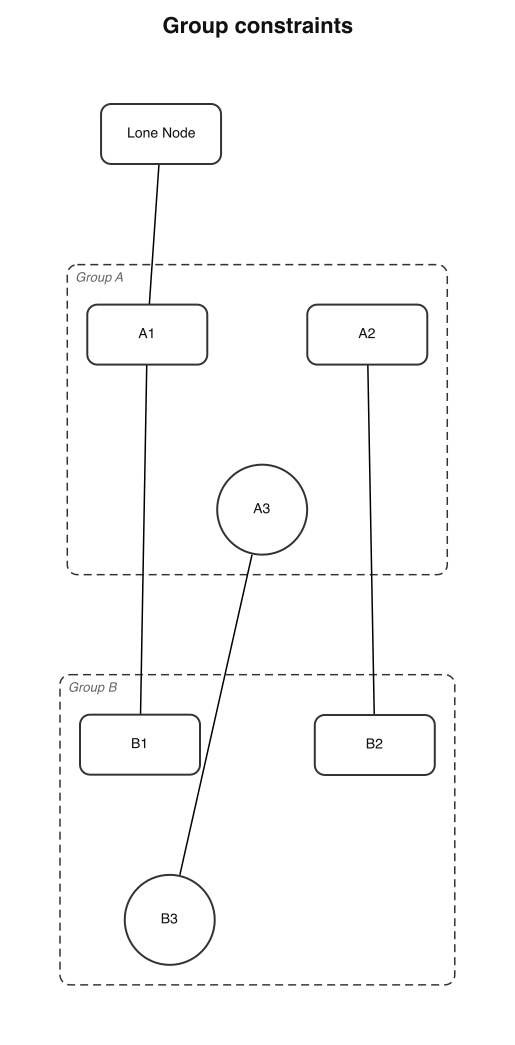
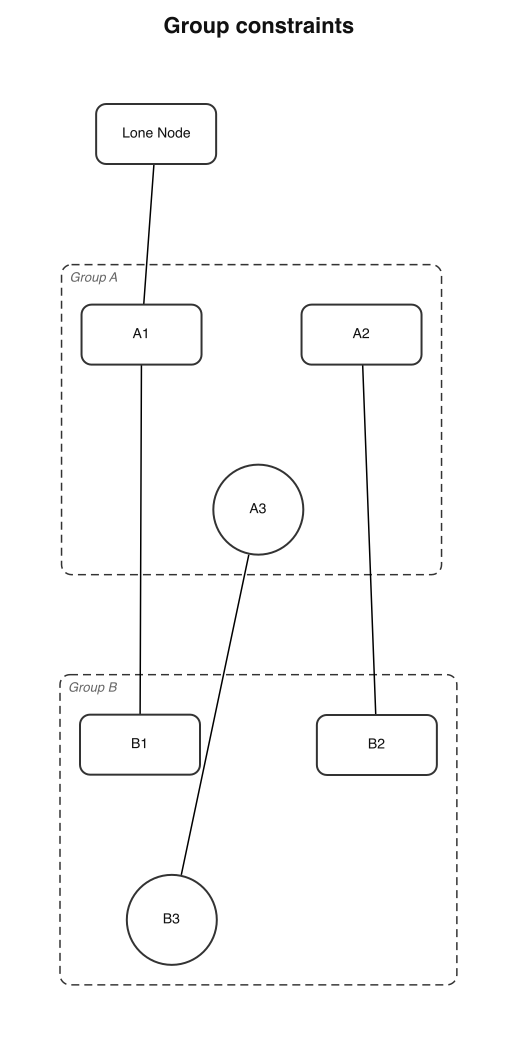
improve overlap somewhat

diff --git a/src/strategies/angular-relaxation.ts b/src/strategies/angular-relaxation.ts
@@ -12,7 +12,12 @@ import type { MinimizeEdge, MinimizeOptions } from "./types";
 
 const FULL_TURN = Math.PI * 2;
 const MINIMUM_ANGULAR_GAP = (40 * Math.PI) / 180;
-export const ANGULAR_IMPROVEMENT_EPSILON = 0.01;
+// One completely collapsed angular gap is worth this many node gaps of edge
+// length. Beyond that, aggregate crowding scales superlinearly: layouts with
+// several unresolved gaps should spend more edge length on readability, while
+// an otherwise open layout keeps the lower ratio.
+const ANGULAR_ERROR_EDGE_EQUIVALENT = 0.25;
+const DENSE_CROWDING_PRESSURE = 4.5;
 const ANGULAR_NUDGE_EPSILON = 1e-4;
 const NUDGE_FRACTIONS = [
   1, 0.5, 0.25, 0.125, 0.0625, 0.03125, 0.015625,
@@ -80,6 +85,31 @@ function totalAngularError(neighborsByHub: NeighborMap): number {
   return error;
 }
 
+function sharedHubCrowdingPressure(neighborsByHub: NeighborMap): number {
+  let error = 0;
+  let count = 0;
+  for (const [hub, neighbors] of neighborsByHub) {
+    if (neighbors.length < 3) continue;
+    const angles = neighbors
+      .map((neighbor) =>
+        normalizedAngle(Math.atan2(neighbor.y - hub.y, neighbor.x - hub.x)),
+      )
+      .sort((a, b) => a - b);
+    if (angles.length < 2) continue;
+    for (let index = 0; index < angles.length; index++) {
+      const next = angles[(index + 1) % angles.length];
+      if (
+        normalizedAngle(next - angles[index]) <
+        MINIMUM_ANGULAR_GAP - ANGULAR_NUDGE_EPSILON
+      ) {
+        count++;
+      }
+    }
+    error += hubAngularError(hub, neighbors);
+  }
+  return error * count;
+}
+
 function obstacleArea(options: MinimizeOptions): number {
   const bounds = measureBounds(
     options.obstacles().map((obstacle) => obstacle.rect),
@@ -89,6 +119,27 @@ function obstacleArea(options: MinimizeOptions): number {
 
 export function angularRelaxationScore(edges: MinimizeEdge[]): number {
   return totalAngularError(buildNeighborMap(edges));
+}
+
+export function readabilityCost(
+  edgeLength: number,
+  angularError: number,
+  nodeGap: number,
+  angularWeight: number,
+): number {
+  return edgeLength + angularError * nodeGap * angularWeight;
+}
+
+function readabilityWeight(neighborsByHub: NeighborMap): number {
+  const crowdingPressure = sharedHubCrowdingPressure(neighborsByHub);
+  return (
+    ANGULAR_ERROR_EDGE_EQUIVALENT *
+    Math.max(1, (crowdingPressure / DENSE_CROWDING_PRESSURE) ** 6)
+  );
+}
+
+export function angularReadabilityWeight(edges: MinimizeEdge[]): number {
+  return readabilityWeight(buildNeighborMap(edges));
 }
 
 function targetAngle(
@@ -180,6 +231,8 @@ function tryRelaxNeighbor(
   if (radius <= EPSILON) return null;
   const originalAngle = Math.atan2(dy, dx);
   const originalPositions = snapshot(options.nodes);
+  const originalX = neighbor.x;
+  const originalY = neighbor.y;
 
   const target = targetAngle(hub, neighbor, connected);
   if (target === null) return null;
@@ -187,8 +240,16 @@ function tryRelaxNeighbor(
   const maximumAngularAdjustment = Math.abs(delta) + ANGULAR_NUDGE_EPSILON;
   const targetX = hub.x + Math.cos(target) * radius;
   const targetY = hub.y + Math.sin(target) * radius;
+  const baselineMeasure = options.measure();
+  if (!baselineMeasure) return null;
+  const angularWeight = readabilityWeight(neighborsByHub);
   let bestError = baselineError;
-  let bestEdgeLength = compactness(options.measure()!).edgeLength;
+  let bestReadability = readabilityCost(
+    baselineMeasure.edgeLength,
+    baselineError,
+    options.nodeGap,
+    angularWeight,
+  );
   let bestPositions: ReturnType<typeof snapshot> | null = null;
   for (const fraction of NUDGE_FRACTIONS) {
     const candidateAngle = originalAngle + delta * fraction;
@@ -215,6 +276,12 @@ function tryRelaxNeighbor(
       if (candidate.y !== undefined) {
         setNodeAxis(options, neighbor, "y", candidate.y);
       }
+      if (
+        Math.hypot(neighbor.x - originalX, neighbor.y - originalY) >
+        options.nodeGap + EPSILON
+      ) {
+        continue;
+      }
       const candidateAngle = Math.atan2(neighbor.y - hub.y, neighbor.x - hub.x);
       if (
         Math.abs(signedAngleDifference(originalAngle, candidateAngle)) >
@@ -227,15 +294,18 @@ function tryRelaxNeighbor(
       const candidateError = totalAngularError(neighborsByHub);
       const candidateMeasure = options.measure();
       if (!candidateMeasure) continue;
-      const candidateEdgeLength = compactness(candidateMeasure).edgeLength;
-      // Edge length is only a guard here: relaxation may never lengthen edges,
-      // but shortening them is edge-shortening's job, not a reason to accept.
+      const candidateReadability = readabilityCost(
+        candidateMeasure.edgeLength,
+        candidateError,
+        options.nodeGap,
+        angularWeight,
+      );
       if (
-        candidateEdgeLength <= bestEdgeLength + EPSILON &&
-        candidateError < bestError - ANGULAR_NUDGE_EPSILON
+        candidateError < baselineError - ANGULAR_NUDGE_EPSILON &&
+        candidateReadability < bestReadability - EPSILON
       ) {
         bestError = candidateError;
-        bestEdgeLength = candidateEdgeLength;
+        bestReadability = candidateReadability;
         bestPositions = snapshot(options.nodes);
       }
     }

diff --git a/src/minimize.ts b/src/minimize.ts
@@ -5,9 +5,10 @@ import { minimizeEdgeLengths } from "./strategies/edge-shortening";
 import { minimizeNodeSwaps } from "./strategies/node-swap";
 import { minimizeSharedHubCompaction } from "./strategies/shared-hub-compaction";
 import {
-  ANGULAR_IMPROVEMENT_EPSILON,
+  angularReadabilityWeight,
   angularRelaxationScore,
   minimizeAngularRelaxation,
+  readabilityCost,
 } from "./strategies/angular-relaxation";
 import {
   compactness,
@@ -64,12 +65,27 @@ export function minimizeLayout(options: MinimizeOptions): void {
         ])
       : null;
     const candidateAngularScore = angularRelaxationScore(options.edges);
-    const angularImproved =
-      candidateAngularScore <
-      baselineAngularScore - ANGULAR_IMPROVEMENT_EPSILON;
-    const angularNotWorse =
-      candidateAngularScore <=
-      baselineAngularScore + ANGULAR_IMPROVEMENT_EPSILON;
+    const angularWeight = angularReadabilityWeight(options.edges);
+    const baselineReadability = readabilityCost(
+      baselineScore.edgeLength,
+      baselineAngularScore,
+      options.nodeGap,
+      angularWeight,
+    );
+    const candidateReadability = candidateScore
+      ? readabilityCost(
+          candidateScore.edgeLength,
+          candidateAngularScore,
+          options.nodeGap,
+          angularWeight,
+        )
+      : null;
+    const readabilityImproved =
+      candidateReadability !== null &&
+      candidateReadability < baselineReadability - EPSILON;
+    const readabilityNotWorse =
+      candidateReadability !== null &&
+      candidateReadability <= baselineReadability + EPSILON;
     const compactnessChanged =
       candidateScore !== null &&
       (["area", "perimeter", "largestDimension", "edgeLength"] as const).some(
@@ -77,8 +93,10 @@ export function minimizeLayout(options: MinimizeOptions): void {
       );
     if (
       compactnessComparison !== null &&
-      ((compactnessComparison < 0 && compactnessChanged && angularNotWorse) ||
-        (compactnessComparison === 0 && angularImproved))
+      (readabilityImproved ||
+        (readabilityNotWorse &&
+          compactnessChanged &&
+          compactnessComparison < 0))
     ) {
       for (const frame of cycleFrames) options.onIteration?.(frame);
       continue;

diff --git a/src/strategies/edge-shortening.ts b/src/strategies/edge-shortening.ts
@@ -1,5 +1,10 @@
 import type { LayoutNode } from "../layout";
 import {
+  angularReadabilityWeight,
+  angularRelaxationScore,
+  readabilityCost,
+} from "./angular-relaxation";
+import {
   compactness,
   compareByKeys,
   emitIteration,
@@ -48,8 +53,17 @@ export function minimizeEdgeLengths(
     const baselineMeasure = options.measure();
     if (!baselineMeasure) return changed;
     const baselineScore = compactness(baselineMeasure);
+    const baselineAngularError = angularRelaxationScore(options.edges);
+    const angularWeight = angularReadabilityWeight(options.edges);
+    const baselineReadability = readabilityCost(
+      baselineMeasure.edgeLength,
+      baselineAngularError,
+      options.nodeGap,
+      angularWeight,
+    );
     const baselinePositions = snapshot(options.nodes);
     let bestScore = baselineScore;
+    let bestReadability = baselineReadability;
     let bestPositions: ReturnType<typeof snapshot> | null = null;
 
     for (const candidate of edgeCandidates(options)) {
@@ -58,16 +72,26 @@ export function minimizeEdgeLengths(
       const candidateMeasure = options.measure();
       if (!candidateMeasure) continue;
       const candidateScore = compactness(candidateMeasure);
+      const candidateReadability = readabilityCost(
+        candidateMeasure.edgeLength,
+        angularRelaxationScore(options.edges),
+        options.nodeGap,
+        angularWeight,
+      );
       if (
         candidateScore.area <= maximumArea + EPSILON &&
-        compareByKeys(candidateScore, bestScore, [
-          "edgeLength",
-          "area",
-          "perimeter",
-          "largestDimension",
-        ]) < 0
+        candidateScore.edgeLength < baselineScore.edgeLength - EPSILON &&
+        (candidateReadability < bestReadability - EPSILON ||
+          (Math.abs(candidateReadability - bestReadability) <= EPSILON &&
+            compareByKeys(candidateScore, bestScore, [
+              "edgeLength",
+              "area",
+              "perimeter",
+              "largestDimension",
+            ]) < 0))
       ) {
         bestScore = candidateScore;
+        bestReadability = candidateReadability;
         bestPositions = snapshot(options.nodes);
       }
     }

diff --git a/tests/layout.test.ts b/tests/layout.test.ts
@@ -526,8 +526,32 @@ constraints {
     const hub = nodes[indexById.get("hub") as number];
     const n1 = nodes[indexById.get("n1") as number];
     const n3 = nodes[indexById.get("n3") as number];
-    expect(n1.y).toBeLessThan(hub.y - 1);
+    // n1 is pinned to the right of the hub and n3 below it, so each keeps one
+    // free axis. Minimization should spend that freedom levelling the spoke,
+    // not leaving the node stranded diagonally.
+    expect(n1.x).toBeGreaterThan(hub.x + 1);
+    expect(Math.abs(n1.y - hub.y)).toBeLessThan(n1.height);
+    expect(n3.y).toBeGreaterThan(hub.y + 1);
     expect(n3.x).toBeLessThan(hub.x - 1);
+    // Eight spokes cannot all clear the minimum angular gap, so this hub keeps a
+    // large residual angular error however it is drawn. Minimization still has
+    // to compact it rather than abandoning the cycle over that error moving.
+    const totalSpokeLength = [
+      "n1",
+      "n2",
+      "n3",
+      "n4",
+      "n5",
+      "n6",
+      "wide",
+      "tiny",
+    ]
+      .map((id) => nodes[indexById.get(id) as number])
+      .reduce(
+        (sum, spoke) => sum + Math.hypot(spoke.x - hub.x, spoke.y - hub.y),
+        0,
+      );
+    expect(totalSpokeLength).toBeLessThan(3000);
   });
 
   it("solves bookstore UC2 with merged multiline edge labels", () => {
